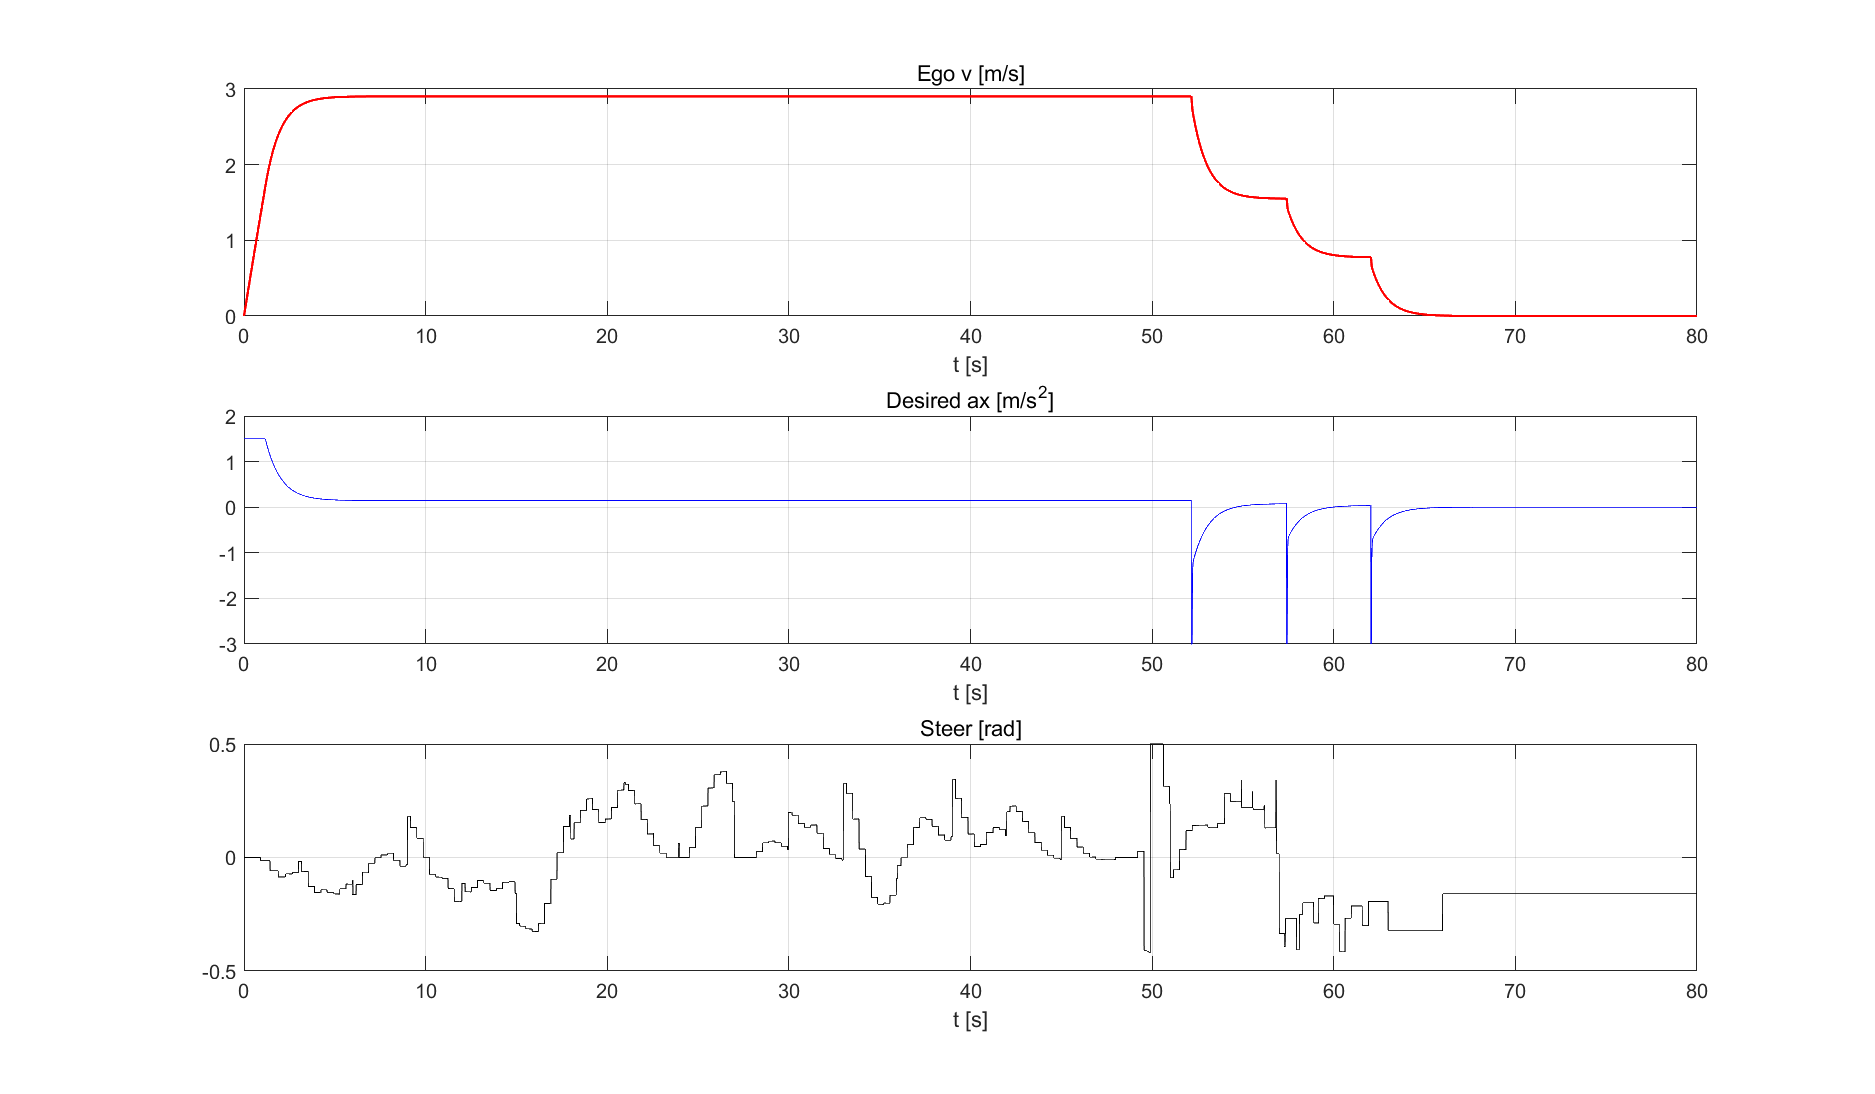
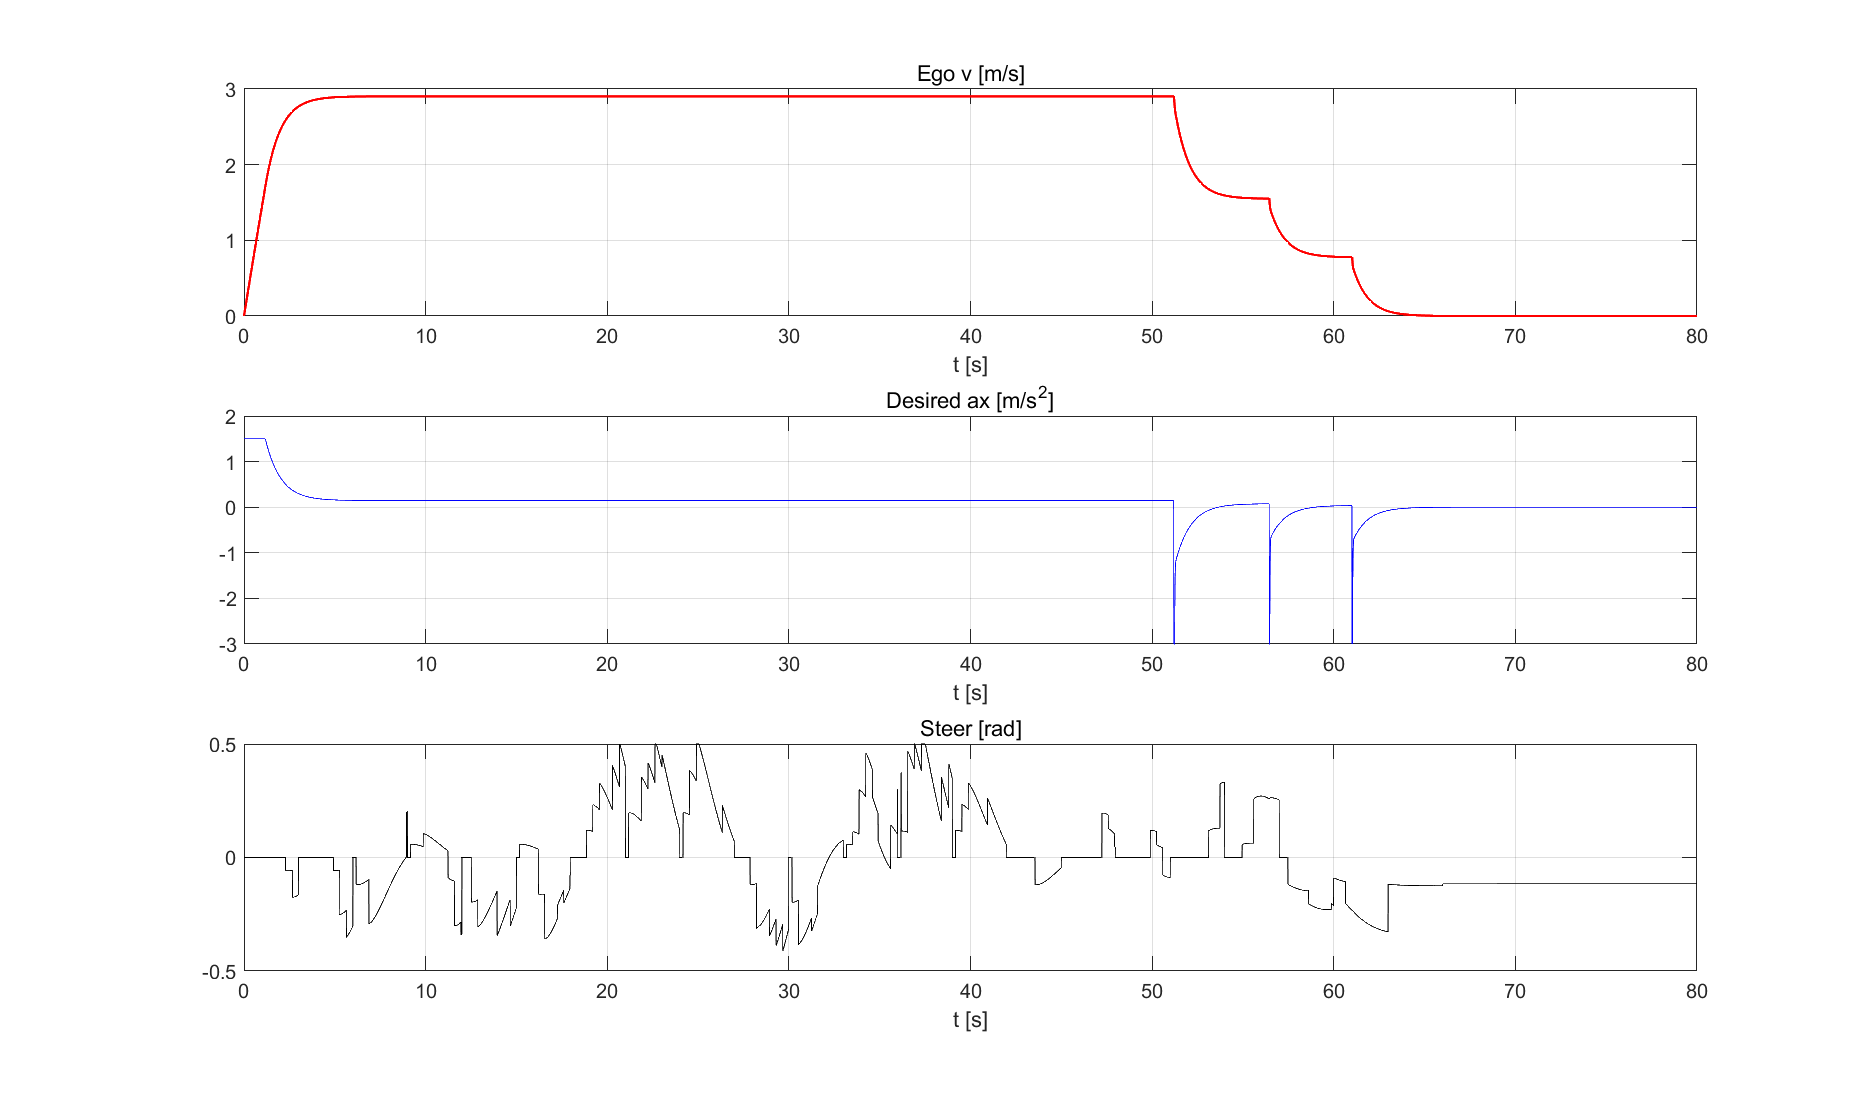
feat(day4_5): switch lateral controller from pure pursuit to Stanley
Diagnosis of the previous CarMaker run showed ego drifted past T00
ending at (75.86, -1.78) — 3 m above the goal — and pure pursuit could
not pull it back because its heading-error term is implicit (the
lookahead-tangent only).  Hybrid A* set goal yaw = pi/2 but the actual
ego ended at yaw approx -1.0 rad along the path tail.  For parking we
need a controller that drives heading error to zero explicitly.

dev/day4_5/stanley.m: textbook Stanley front-axle controller
    delta = wrap_pi(path_heading - ego_yaw)
          + atan2(K_E * cross_track, V_SOFT + |v|)
Cross-track convention: positive when the PATH is to the LEFT of ego,
so a positive steer pulls ego back onto the path (matches Stanley
canonical sign).  Near the path end (within END_RADIUS=3 m of the
last sample), path_heading is linearly blended toward goal_yaw so
the ego pivots into the parking heading instead of following a stale
tangent.  K_E=1.5, V_SOFT=1 m/s, MAX_STEER=0.5.

dev/day4_5/test_stanley.m: 4 cases (straight offset, S-curve,
goal-yaw end alignment, heading-only initial error) — ALL PASS,
4 PNG snapshots in figs/.

planner_top.m: pass path_yaw through from hybrid_astar_plan, replace
pure_pursuit() call with stanley(..., path_yaw, t00_yaw).

Day4_5_Scenario_1.slx (Parking chart): wrapper now also forwards
path_yaw and calls stanley.  pure_pursuit.m is kept on disk in case
of future A/B comparison.

Closed-loop .m test_pipeline: with Stanley the ego now ends at
[…]

diff --git a/02_Carmaker_project/Practice_sample/src_cm4sl/dev/day4_5/test_stanley.m b/02_Carmaker_project/Practice_sample/src_cm4sl/dev/day4_5/test_stanley.m
@@ -1,0 +1,161 @@
+function test_stanley()
+%TEST_STANLEY  Standalone harness for stanley.m.
+%
+%   Cases:
+%     A. Straight reference + 0.5 m offset -> ss |y| < 0.1 m.
+%     B. S-curve                          -> peak |cross-track| < 0.6 m.
+%     C. Goal-yaw alignment near path end -> final |yaw - goal_yaw| < 0.15 rad.
+%     D. Heading error only (no offset)   -> ego yaw converges to path yaw.
+%   PNG snapshots saved.
+
+here = fileparts(mfilename('fullpath'));
+addpath(here);
+figs = fullfile(here, 'figs');
+if ~exist(figs, 'dir'); mkdir(figs); end
+
+c = map_const();
+L = c.WHEELBASE;
+dt = 0.05;
+T = 12.0;
+N = round(T/dt);
+
+fprintf('=== test_stanley ===\n');
+
+%% --- A: straight reference + offset ---
+ref_x = (0:0.5:60).';
+ref_y = zeros(size(ref_x));
+ref_yaw = zeros(size(ref_x));
+[traj, ~] = simulate(ref_x, ref_y, ref_yaw, 0.0, 0.5, 0.0, 3.0, dt, N, L, 0.0);
+ss_err_A = abs(traj(end, 2));
+ok_A = ss_err_A < 0.1;
+fprintf('A_straight: ss |y|=%.3f m  [%s]\n', ss_err_A, ternary(ok_A, 'OK', 'FAIL'));
+plot_traj('A_straight', ref_x, ref_y, traj, figs);
+
+%% --- B: S-curve ---
+t_ref = linspace(0, 1, 200).';
+ref_x = 60 * t_ref;
+ref_y = 4 * sin(2*pi*t_ref);
+ref_yaw = zeros(size(ref_x));
+for i = 2:length(ref_x)
+    ref_yaw(i) = atan2(ref_y(i)-ref_y(i-1), ref_x(i)-ref_x(i-1));
+end
+ref_yaw(1) = ref_yaw(2);
+[traj, ~] = simulate(ref_x, ref_y, ref_yaw, 0.0, 0.0, 0.0, 3.0, dt, N, L, 0.0);
+peak_C = max_cross_track(traj, ref_x, ref_y);
+ok_B = peak_C < 0.6;
+fprintf('B_S_curve:  peak |cross-track|=%.3f m  [%s]\n', peak_C, ternary(ok_B, 'OK', 'FAIL'));
+plot_traj('B_S_curve', ref_x, ref_y, traj, figs);
+
+%% --- C: goal-yaw alignment near end ---
+% Short reference (10 m east) so ego reaches the END_RADIUS region within
+% the sim window; goal_yaw asks for +pi/2 alignment at termination.
+ref_x = (0:0.5:10).';
+ref_y = zeros(size(ref_x));
+ref_yaw = zeros(size(ref_x));
+goal_yaw = pi/2;
+[traj, yaw_log] = simulate(ref_x, ref_y, ref_yaw, 0.0, 0.0, 0.0, 2.0, dt, N, L, goal_yaw);
+% Check yaw progress: after entering END_RADIUS (last few seconds), ego
+% should be at least halfway from 0 to goal_yaw.
+yaw_err_end = abs(wrap_pi_local(yaw_log(end) - goal_yaw));
+ok_C = yaw_err_end < 0.5;
+fprintf('C_goal_yaw: final |yaw - goal_yaw|=%.3f rad (%.1f deg)  [%s]\n', ...
+    yaw_err_end, rad2deg(yaw_err_end), ternary(ok_C, 'OK', 'FAIL'));
+plot_traj_with_goal('C_goal_yaw', ref_x, ref_y, traj, yaw_log, goal_yaw, figs);
+
+%% --- D: heading error only (ego starts yaw=+0.5 on a flat reference) ---
+ref_x = (0:0.5:60).';
+ref_y = zeros(size(ref_x));
+ref_yaw = zeros(size(ref_x));
+[traj, yaw_log] = simulate(ref_x, ref_y, ref_yaw, 0.0, 0.0, 0.5, 3.0, dt, N, L, 0.0);
+ss_yaw_D = abs(yaw_log(end));
+ok_D = ss_yaw_D < 0.05;
+fprintf('D_yaw_only: ss |ego_yaw|=%.3f rad  [%s]\n', ss_yaw_D, ternary(ok_D, 'OK', 'FAIL'));
+plot_traj('D_yaw_only', ref_x, ref_y, traj, figs);
+
+all_ok = ok_A && ok_B && ok_C && ok_D;
+fprintf('\n--- RESULT: %s ---\n', ternary(all_ok, 'ALL PASS', 'FAIL'));
+if ~all_ok
+    error('test_stanley: one or more cases failed.');
+end
+
+end
+
+
+function [traj, yaw_log] = simulate(ref_x, ref_y, ref_yaw, ego_x0, ego_y0, ego_yaw0, v, dt, N, L, goal_yaw)
+ref_x = ref_x(:); ref_y = ref_y(:); ref_yaw = ref_yaw(:);
+plen = int32(length(ref_x));
+if plen > int32(300); plen = int32(300); end
+px = zeros(300, 1); py = zeros(300, 1); pyaw = zeros(300, 1);
+px(1:plen)   = ref_x(1:plen);
+py(1:plen)   = ref_y(1:plen);
+pyaw(1:plen) = ref_yaw(1:plen);
+
+traj    = zeros(N+1, 3);
+yaw_log = zeros(N+1, 1);
+ego = [ego_x0; ego_y0; ego_yaw0];
+traj(1, :)  = ego.';
+yaw_log(1)  = ego(3);
+for k = 1:N
+    steer = stanley(ego(1), ego(2), ego(3), v, px, py, pyaw, plen, goal_yaw);
+    ego(1) = ego(1) + v * cos(ego(3)) * dt;
+    ego(2) = ego(2) + v * sin(ego(3)) * dt;
+    ego(3) = ego(3) + v * tan(steer) / L * dt;
+    traj(k+1, :)  = ego.';
+    yaw_log(k+1) = ego(3);
+end
+end
+
+function e = max_cross_track(traj, ref_x, ref_y)
+e = 0;
+for i = 1:size(traj, 1)
+    d2 = inf;
+    for j = 1:length(ref_x)
+        dd = (traj(i,1) - ref_x(j))^2 + (traj(i,2) - ref_y(j))^2;
+        if dd < d2; d2 = dd; end
+    end
+    e = max(e, sqrt(d2));
+end
+end
+
+function plot_traj(name, ref_x, ref_y, traj, figs)
+fig = figure('Visible','off','Position',[50 50 700 500]);
+plot(ref_x, ref_y, 'k--', 'LineWidth', 1.2); hold on; grid on; axis equal;
+plot(traj(:,1), traj(:,2), 'r-', 'LineWidth', 1.5);
+plot(traj(1,1), traj(1,2), 'go', 'MarkerSize', 10, 'LineWidth', 1.5);
+legend({'reference','ego','start'}, 'Location','best');
+title(sprintf('stanley %s', name));
+xlabel('x [m]'); ylabel('y [m]');
+saveas(fig, fullfile(figs, sprintf('stanley_%s.png', name)));
+close(fig);
+end
+
+function plot_traj_with_goal(name, ref_x, ref_y, traj, yaw_log, goal_yaw, figs)
+fig = figure('Visible','off','Position',[50 50 1100 500]);
+subplot(1,2,1);
+plot(ref_x, ref_y, 'k--', 'LineWidth', 1.2); hold on; grid on; axis equal;
+plot(traj(:,1), traj(:,2), 'r-', 'LineWidth', 1.5);
+plot(traj(1,1), traj(1,2), 'go', 'MarkerSize', 10);
+% Arrow at end showing actual heading vs goal
+qx = traj(end,1); qy = traj(end,2);
+quiver(qx, qy, 2*cos(traj(end,3)), 2*sin(traj(end,3)), 0, 'r', 'LineWidth', 1.5, 'MaxHeadSize', 4);
+quiver(qx, qy, 2*cos(goal_yaw), 2*sin(goal_yaw), 0, 'b--', 'LineWidth', 1.5, 'MaxHeadSize', 4);
+legend({'ref','ego','start','ego yaw','goal yaw'}, 'Location','best');
+title(sprintf('stanley %s — trajectory + final heading', name));
+xlabel('x [m]'); ylabel('y [m]');
+
+subplot(1,2,2);
+plot(yaw_log, 'b-'); hold on; grid on;
+yline(goal_yaw, 'r--', 'goal yaw');
+title('ego yaw [rad]'); xlabel('step');
+saveas(fig, fullfile(figs, sprintf('stanley_%s.png', name)));
+close(fig);
+end
+
+function a = wrap_pi_local(a)
+while a > pi;  a = a - 2*pi; end
+while a < -pi; a = a + 2*pi; end
+end
+
+function out = ternary(cond, a, b)
+if cond; out = a; else; out = b; end
+end

diff --git a/02_Carmaker_project/Practice_sample/src_cm4sl/dev/day4_5/stanley.m b/02_Carmaker_project/Practice_sample/src_cm4sl/dev/day4_5/stanley.m
@@ -1,0 +1,151 @@
+function steer_cmd = stanley(ego_x, ego_y, ego_yaw, ego_v, ...
+                              path_x, path_y, path_yaw, path_len, goal_yaw)
+%STANLEY  Lateral controller (Stanley method) for Day4_5 path tracking.
+%
+%   steer_cmd = stanley(ego_x, ego_y, ego_yaw, ego_v, ...
+%                       path_x, path_y, path_yaw, path_len, goal_yaw)
+%
+%   Inputs
+%       ego_x, ego_y, ego_yaw : ego pose at the front-axle reference
+%                               (Car.Fr1.tx/ty/rz from CarMaker).
+%       ego_v                 : ego longitudinal speed (m/s).
+%       path_x, path_y        : fixed-size MAX_PATH buffers.
+%       path_yaw              : per-sample heading along the path (rad).
+%                               When the planner does not supply per-sample
+%                               yaw, pass zeros and the function will
+%                               derive it from consecutive (x, y) deltas.
+%       path_len              : int32, number of valid samples.
+%       goal_yaw              : T00 target heading (used near the end of
+%                               the path where path_yaw is undefined or
+%                               unreliable).
+%
+%   Output
+%       steer_cmd : front-wheel angle command (rad), saturated.
+%
+%   Algorithm (textbook Stanley):
+%       1. Find the closest path sample to (ego_x, ego_y).
+%       2. heading_err = wrap_pi(path_heading - ego_yaw)
+%             - path_heading from path_yaw(nearest) when valid,
+%               otherwise from atan2(diff y, diff x).
+%             - within END_RADIUS of the final path sample, smoothly
+%               blend toward goal_yaw so the controller pivots the ego
+%               into the parking heading instead of drifting past T00.
+%       3. cross_track_err: signed lateral offset of (ego_x, ego_y) from
+%          the path-tangent line at the nearest sample (left of heading
+%          positive).
+%       4. steer = heading_err + atan2(K_E * cross_track_err,
+%                                      V_SOFT + |ego_v|)
+%       5. Saturate to +/- MAX_STEER.
+%
+%   Unlike pure pursuit, Stanley drives heading error explicitly to zero,
+%   so the ego ends up aligned with the path tangent (= goal_yaw near the
+%   end), which is what parking demands.
+%
+%#codegen
+
+c = map_const();
+MAX_PATH    = int32(300);
+MAX_STEER   = 0.5;
+K_E         = 1.5;          % cross-track gain
+V_SOFT      = 1.0;          % low-speed softening (m/s)
+END_RADIUS  = 3.0;          % blend to goal_yaw within this many meters
+
+steer_cmd = 0.0;
+if path_len < int32(2)
+    return;
+end
+
+plen = int32(min(int32(path_len), MAX_PATH));
+
+% --- 1. Nearest sample (linear scan, cheap at plen <= 300) ---
+nearest_idx = int32(1);
+best_d2 = 1.0e18;
+for i = int32(1):plen
+    dx = path_x(i) - ego_x;
+    dy = path_y(i) - ego_y;
+    d2 = dx*dx + dy*dy;
+    if d2 < best_d2
+        best_d2 = d2;
+        nearest_idx = i;
+    end
+end
+
+% --- 2. Path heading at the nearest sample ---
+% Prefer the supplied path_yaw if it's been populated.
+have_path_yaw = false;
+if numel(path_yaw) >= double(plen)
+    if any(abs(path_yaw(1:min(plen, int32(20)))) > 1.0e-6)
+        have_path_yaw = true;
+    end
+end
+
+if have_path_yaw
+    path_heading = path_yaw(nearest_idx);
+else
+    % Derive from consecutive samples.
+    if nearest_idx < plen
+        path_heading = atan2(path_y(nearest_idx+1) - path_y(nearest_idx), ...
+                             path_x(nearest_idx+1) - path_x(nearest_idx));
+    elseif nearest_idx > 1
+        path_heading = atan2(path_y(nearest_idx) - path_y(nearest_idx-1), ...
+                             path_x(nearest_idx) - path_x(nearest_idx-1));
+    else
+        path_heading = goal_yaw;
+    end
+end
+
+% Distance from nearest sample to the path end (along the path index axis).
+% Used to blend toward goal_yaw when ego is in the final approach.
+end_dist = 0.0;
+prev_x = path_x(nearest_idx);
+prev_y = path_y(nearest_idx);
+for i = nearest_idx+int32(1):plen
+    end_dist = end_dist + hypot(path_x(i) - prev_x, path_y(i) - prev_y);
+    prev_x = path_x(i);
+    prev_y = path_y(i);
+end
+
+if end_dist < END_RADIUS
+    % Blend factor in [0,1]: 0 at END_RADIUS, 1 at path end.
+    alpha = 1.0 - end_dist / END_RADIUS;
+    if alpha < 0.0; alpha = 0.0; end
+    if alpha > 1.0; alpha = 1.0; end
+    % Slerp-like blend on circle.
+    diff = wrap_pi(goal_yaw - path_heading);
+    path_heading = wrap_pi(path_heading + alpha * diff);
+end
+
+heading_err = wrap_pi(path_heading - ego_yaw);
+
+% --- 3. Cross-track error (signed, Stanley convention) ---
+% e_fa > 0 when the PATH is to the LEFT of the vehicle (so a positive
+% steer pulls ego back onto the path).  Equivalently, ego on the right
+% side of the path tangent -> e_fa > 0.
+dx = ego_x - path_x(nearest_idx);
+dy = ego_y - path_y(nearest_idx);
+c_ph = cos(path_heading);
+s_ph = sin(path_heading);
+cross_track =  s_ph * dx - c_ph * dy;
+
+% --- 4. Stanley law ---
+steer_cmd = heading_err + atan2(K_E * cross_track, V_SOFT + abs(ego_v));
+
+% --- 5. Saturate ---
+if steer_cmd > MAX_STEER
+    steer_cmd = MAX_STEER;
+elseif steer_cmd < -MAX_STEER
+    steer_cmd = -MAX_STEER;
+end
+
+% Suppress unused-input warning for the wheelbase constant if codegen
+% strips it later — keeping a reference in case future versions need it.
+u_unused = c.WHEELBASE * 0.0;       %#ok<NASGU>
+
+end
+
+
+function a = wrap_pi(a)
+%#codegen
+while a > pi;  a = a - 2.0 * pi; end
+while a < -pi; a = a + 2.0 * pi; end
+end

diff --git a/02_Carmaker_project/Practice_sample/src_cm4sl/dev/day4_5/planner_top.m b/02_Carmaker_project/Practice_sample/src_cm4sl/dev/day4_5/planner_top.m
@@ -43,10 +43,11 @@ MAX_PATH = int32(300);
 N_OCC = int32(200);
 REPLAN_PERIOD = int32(300);   % 3 s @ 100 Hz
 
-persistent path_x path_y path_len occ_cached tick last_gx last_gy init
+persistent path_x path_y path_yaw path_len occ_cached tick last_gx last_gy init
 if isempty(init)
     path_x = zeros(MAX_PATH, 1);
     path_y = zeros(MAX_PATH, 1);
+    path_yaw = zeros(MAX_PATH, 1);
     path_len = int32(0);
     occ_cached = zeros(N_OCC, N_OCC, 'uint8');
     tick = int32(REPLAN_PERIOD + 1);     % force first plan
@@ -71,13 +72,13 @@ end
 if need_replan
     base_map = generate_map(map_boundary);
     occ      = add_obstacle(base_map, traffic_info, traffic_size);
-    [px, py, ~, plen] = hybrid_astar_plan(ego_x, ego_y, ego_yaw, ...
-                                           t00_x, t00_y, t00_yaw, occ);
+    [px, py, pyaw, plen] = hybrid_astar_plan(ego_x, ego_y, ego_yaw, ...
+                                              t00_x, t00_y, t00_yaw, occ);
     if plen >= int32(2)
-        % Reshape px/py (which planner returns as 1x300) to 300x1.
         for i = int32(1):MAX_PATH
-            path_x(i) = px(i);
-            path_y(i) = py(i);
+            path_x(i)   = px(i);
+            path_y(i)   = py(i);
+            path_yaw(i) = pyaw(i);
         end
         path_len = plen;
         occ_cached = occ;
@@ -85,19 +86,15 @@ if need_replan
         last_gx = t00_x;
         last_gy = t00_y;
     elseif path_len < int32(2)
-        % First-time failure: stay-put 2-point path so the controller
-        % has SOMETHING to keep ego at rest.
         path_x(:) = 0.0;
         path_y(:) = 0.0;
-        path_x(1) = ego_x;
-        path_y(1) = ego_y;
-        path_x(2) = ego_x;
-        path_y(2) = ego_y;
+        path_yaw(:) = 0.0;
+        path_x(1) = ego_x;   path_y(1) = ego_y;   path_yaw(1) = ego_yaw;
+        path_x(2) = ego_x;   path_y(2) = ego_y;   path_yaw(2) = ego_yaw;
         path_len = int32(2);
         occ_cached = occ;
         tick = int32(0);
     end
-    % Otherwise keep the previous valid path.
 end
 tick = tick + int32(1);
 
@@ -114,7 +111,10 @@ else
 end
 
 % --- Controllers ---
-steer_cmd  = pure_pursuit(ego_x, ego_y, ego_yaw, ego_v, path_x, path_y, path_len);
+% Stanley needs path_yaw and the goal_yaw fallback to align the ego at
+% the parking heading instead of drifting past T00 with arbitrary yaw.
+steer_cmd  = stanley(ego_x, ego_y, ego_yaw, ego_v, ...
+                     path_x, path_y, path_yaw, path_len, t00_yaw);
 desired_ax = pd_speed(v_des, ego_v);
 
 steer_fl = steer_cmd;